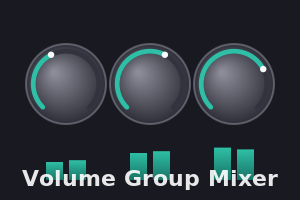
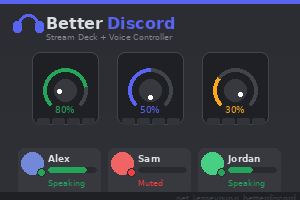
Fix voice state events not firing by passing channel_id to Discord RPC subscriptions
Discord's RPC API requires a channel_id argument for VOICE_STATE_CREATE/UPDATE/DELETE
subscriptions — without it the events are silently dropped. Now subscribes to
VOICE_CHANNEL_SELECT first, then after the initial member refresh (which captures the
channel ID), subscribes to voice state events with the correct channel_id. Re-subscribes
automatically when the user switches channels.

diff --git a/backend/backend.py b/backend/backend.py
@@ -36,6 +36,7 @@ class Backend(BackendBase):
         self._avatar_cache: dict[str, str] = {}
         self._muted: dict[str, bool] = {}
         self._current_user_id: str | None = None
+        self._channel_id: str | None = None
 
     # ------------------------------------------------------------------ socket
 
@@ -135,6 +136,8 @@ class Backend(BackendBase):
 
                 if evt in ("VOICE_STATE_CREATE", "VOICE_STATE_UPDATE", "VOICE_STATE_DELETE"):
                     threading.Thread(target=self._refresh_members, daemon=True).start()
+                elif evt == "VOICE_CHANNEL_SELECT":
+                    threading.Thread(target=self._on_channel_select, daemon=True).start()
 
             except Exception as e:
                 log.error(f"Discord IPC listener error: {e}")
@@ -193,7 +196,8 @@ class Backend(BackendBase):
 
         self._connected = True
         self._subscribe_events()
-        threading.Thread(target=self._refresh_members, daemon=True).start()
+        self._refresh_members()
+        self._subscribe_voice_state_events(self._channel_id)
         return True
 
     def get_fresh_token(self, client_id: str, client_secret: str) -> tuple[str | None, str | None]:
@@ -296,11 +300,23 @@ class Backend(BackendBase):
     # ---------------------------------------------------------- Discord events
 
     def _subscribe_events(self) -> None:
+        try:
+            self._send_frame({"cmd": "SUBSCRIBE", "evt": "VOICE_CHANNEL_SELECT", "args": {}})
+        except Exception as e:
+            log.error(f"Failed to subscribe to VOICE_CHANNEL_SELECT: {e}")
+
+    def _subscribe_voice_state_events(self, channel_id: str | None) -> None:
+        if not channel_id:
+            return
         for evt in ("VOICE_STATE_CREATE", "VOICE_STATE_UPDATE", "VOICE_STATE_DELETE"):
             try:
-                self._send_frame({"cmd": "SUBSCRIBE", "evt": evt, "args": {}})
+                self._send_frame({"cmd": "SUBSCRIBE", "evt": evt, "args": {"channel_id": channel_id}})
             except Exception as e:
-                log.error(f"Failed to subscribe to {evt}: {e}")
+                log.error(f"Failed to subscribe to {evt} for channel {channel_id}: {e}")
+
+    def _on_channel_select(self) -> None:
+        self._refresh_members()
+        self._subscribe_voice_state_events(self._channel_id)
 
     def _fetch_avatar(self, user_id: str, avatar_hash: str) -> str | None:
         """Download and cache a user's Discord avatar. Returns local file path or None."""
@@ -333,6 +349,7 @@ class Backend(BackendBase):
         try:
             resp = self._send_frame({"cmd": "GET_SELECTED_VOICE_CHANNEL", "args": {}})
             data = resp.get("data") or {}
+            self._channel_id = data.get("id") or None
             voice_states = data.get("voice_states", [])
             members = []
             for vs in voice_states: